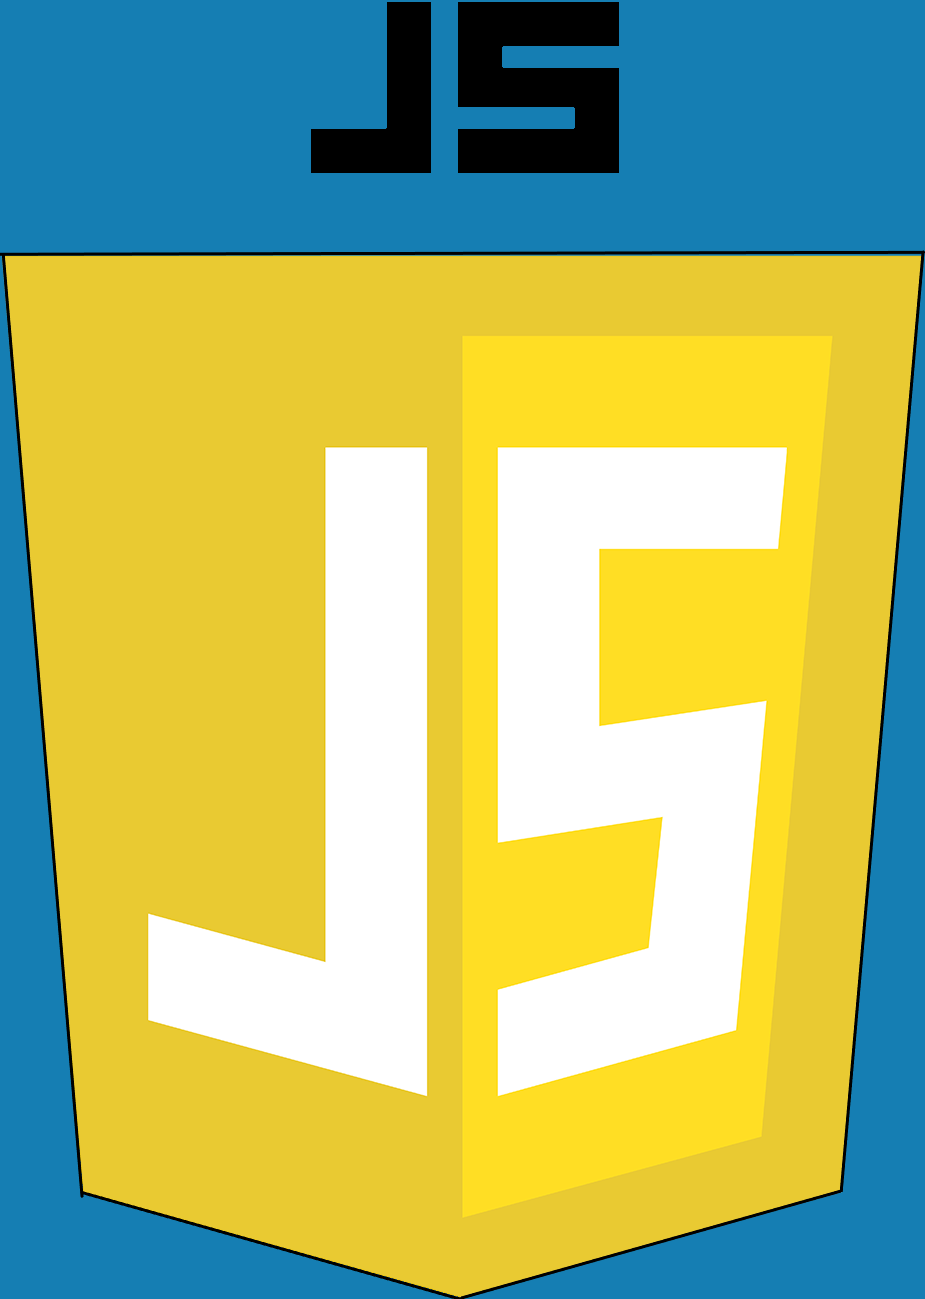
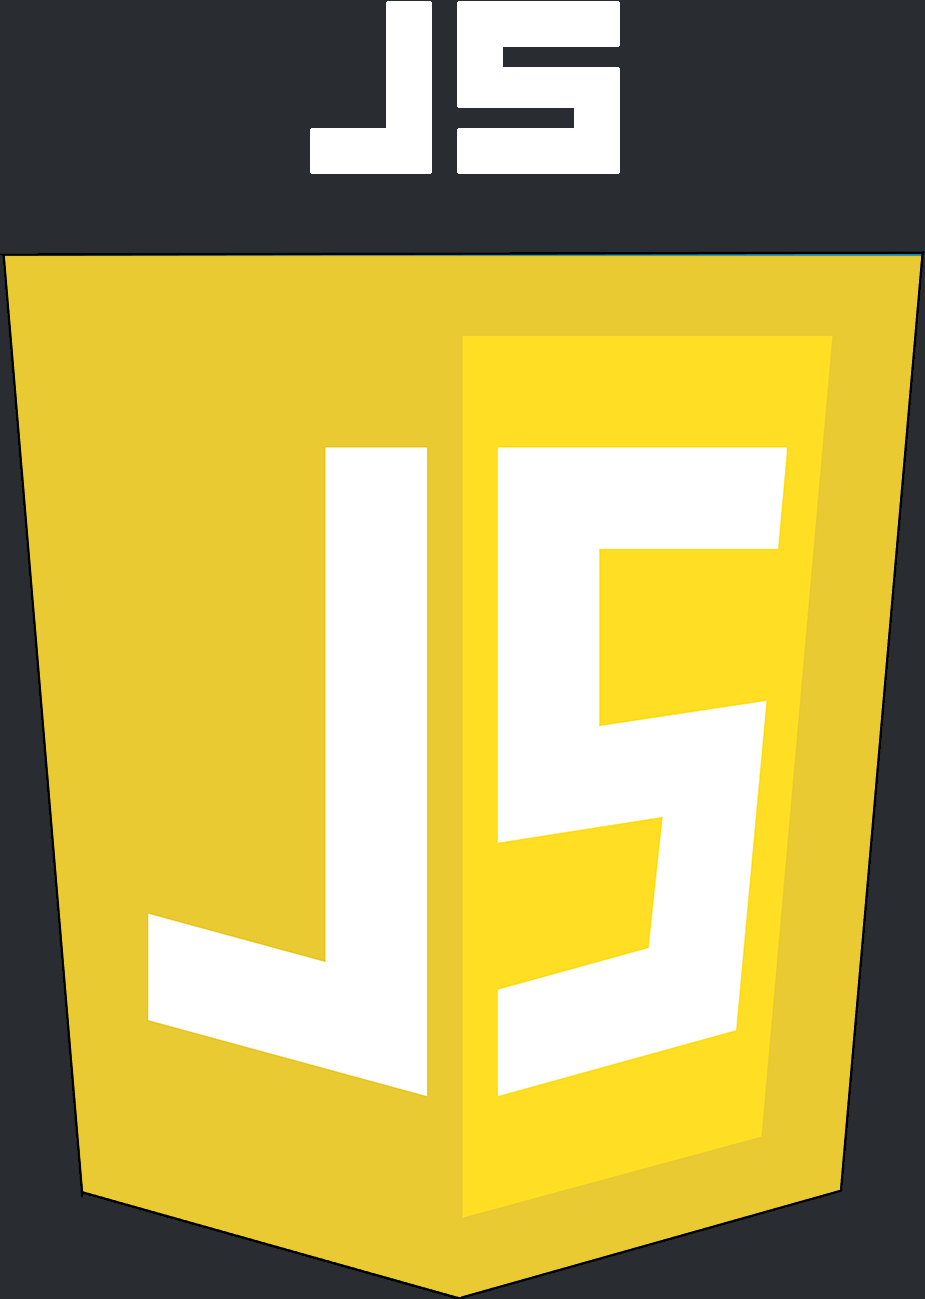
changed background color to dark grey, changed profile picture

diff --git a/index.html b/index.html
@@ -25,7 +25,7 @@
             <h1 id="name">Aron Wilson</h1>
             <h2 id="title">Junior Web Developer</h2>
             <div class="profile-photo">
-                <img class="profile-picture" src="images/profile-picture.jpg" alt="profile-pic">
+                <img class="profile-picture" src="images/aron-face-image.JPG" alt="profile-pic">
             </div>
             
             <h3 id="job-areas">Design, Front-End, Freelance, Student</h3>
@@ -33,7 +33,6 @@
 
         <div class="end-section-line">
             <hr id="line-1">
-            <hr id="line-2">
         </div>
 
         <div class="header-1">
@@ -44,7 +43,7 @@
             <img class="code-institute" src="images/CI-logo.png" alt="Code Institute">
             <p id="diploma"><b>Towards a diploma in:</b></p>
             <p>Full-Stack Software Development</p>
-            <p>(Advanced Front-End)</p>
+            <p>( Advanced Front-End )</p>
         </div>
 
         <div class="end-section-line">
@@ -87,7 +86,6 @@
         </div>
         <div class="end-section-line">
             <hr id="line-1">
-            <hr id="line-2">
         </div>
 
 

diff --git a/CSS/style.css b/CSS/style.css
@@ -3,6 +3,7 @@
     padding:0;
     margin:0;
     font-family: "Alexandria", sans-serif;
+    color: rgb(246, 249, 255);
 }
 
 .sticky-header {
@@ -21,8 +22,8 @@
       to bottom,
       rgb(246, 249, 255) 0%,
       rgb(246, 249, 255) 6%,
-      rgb(21, 126, 179) 6%,
-      rgb(21, 126, 179) 100%
+      #292c31 6%,
+      #292c31 100%
     
     );
     height: 450vh;
@@ -34,6 +35,7 @@
     font-family: "Alexandria", sans-serif;
     font-size: 2.5rem;
     margin-top: 5rem;
+    color: #292c31;
    
     
 }
@@ -45,6 +47,7 @@
     font-size: 1rem;
     margin-top: 0.1rem;
     margin-bottom: 1rem;
+    color:#292c31;
 }
 
 #job-areas {
@@ -138,12 +141,3 @@
   margin-left:8vw;
      
 }
-#line-2 {
-    height:1.5px;
-    margin-top: 0.5rem;
-    border-width:0;
-    background-color:#000000;
-    margin-left: 23%;
-    max-width: 53%;
-       
-  }
